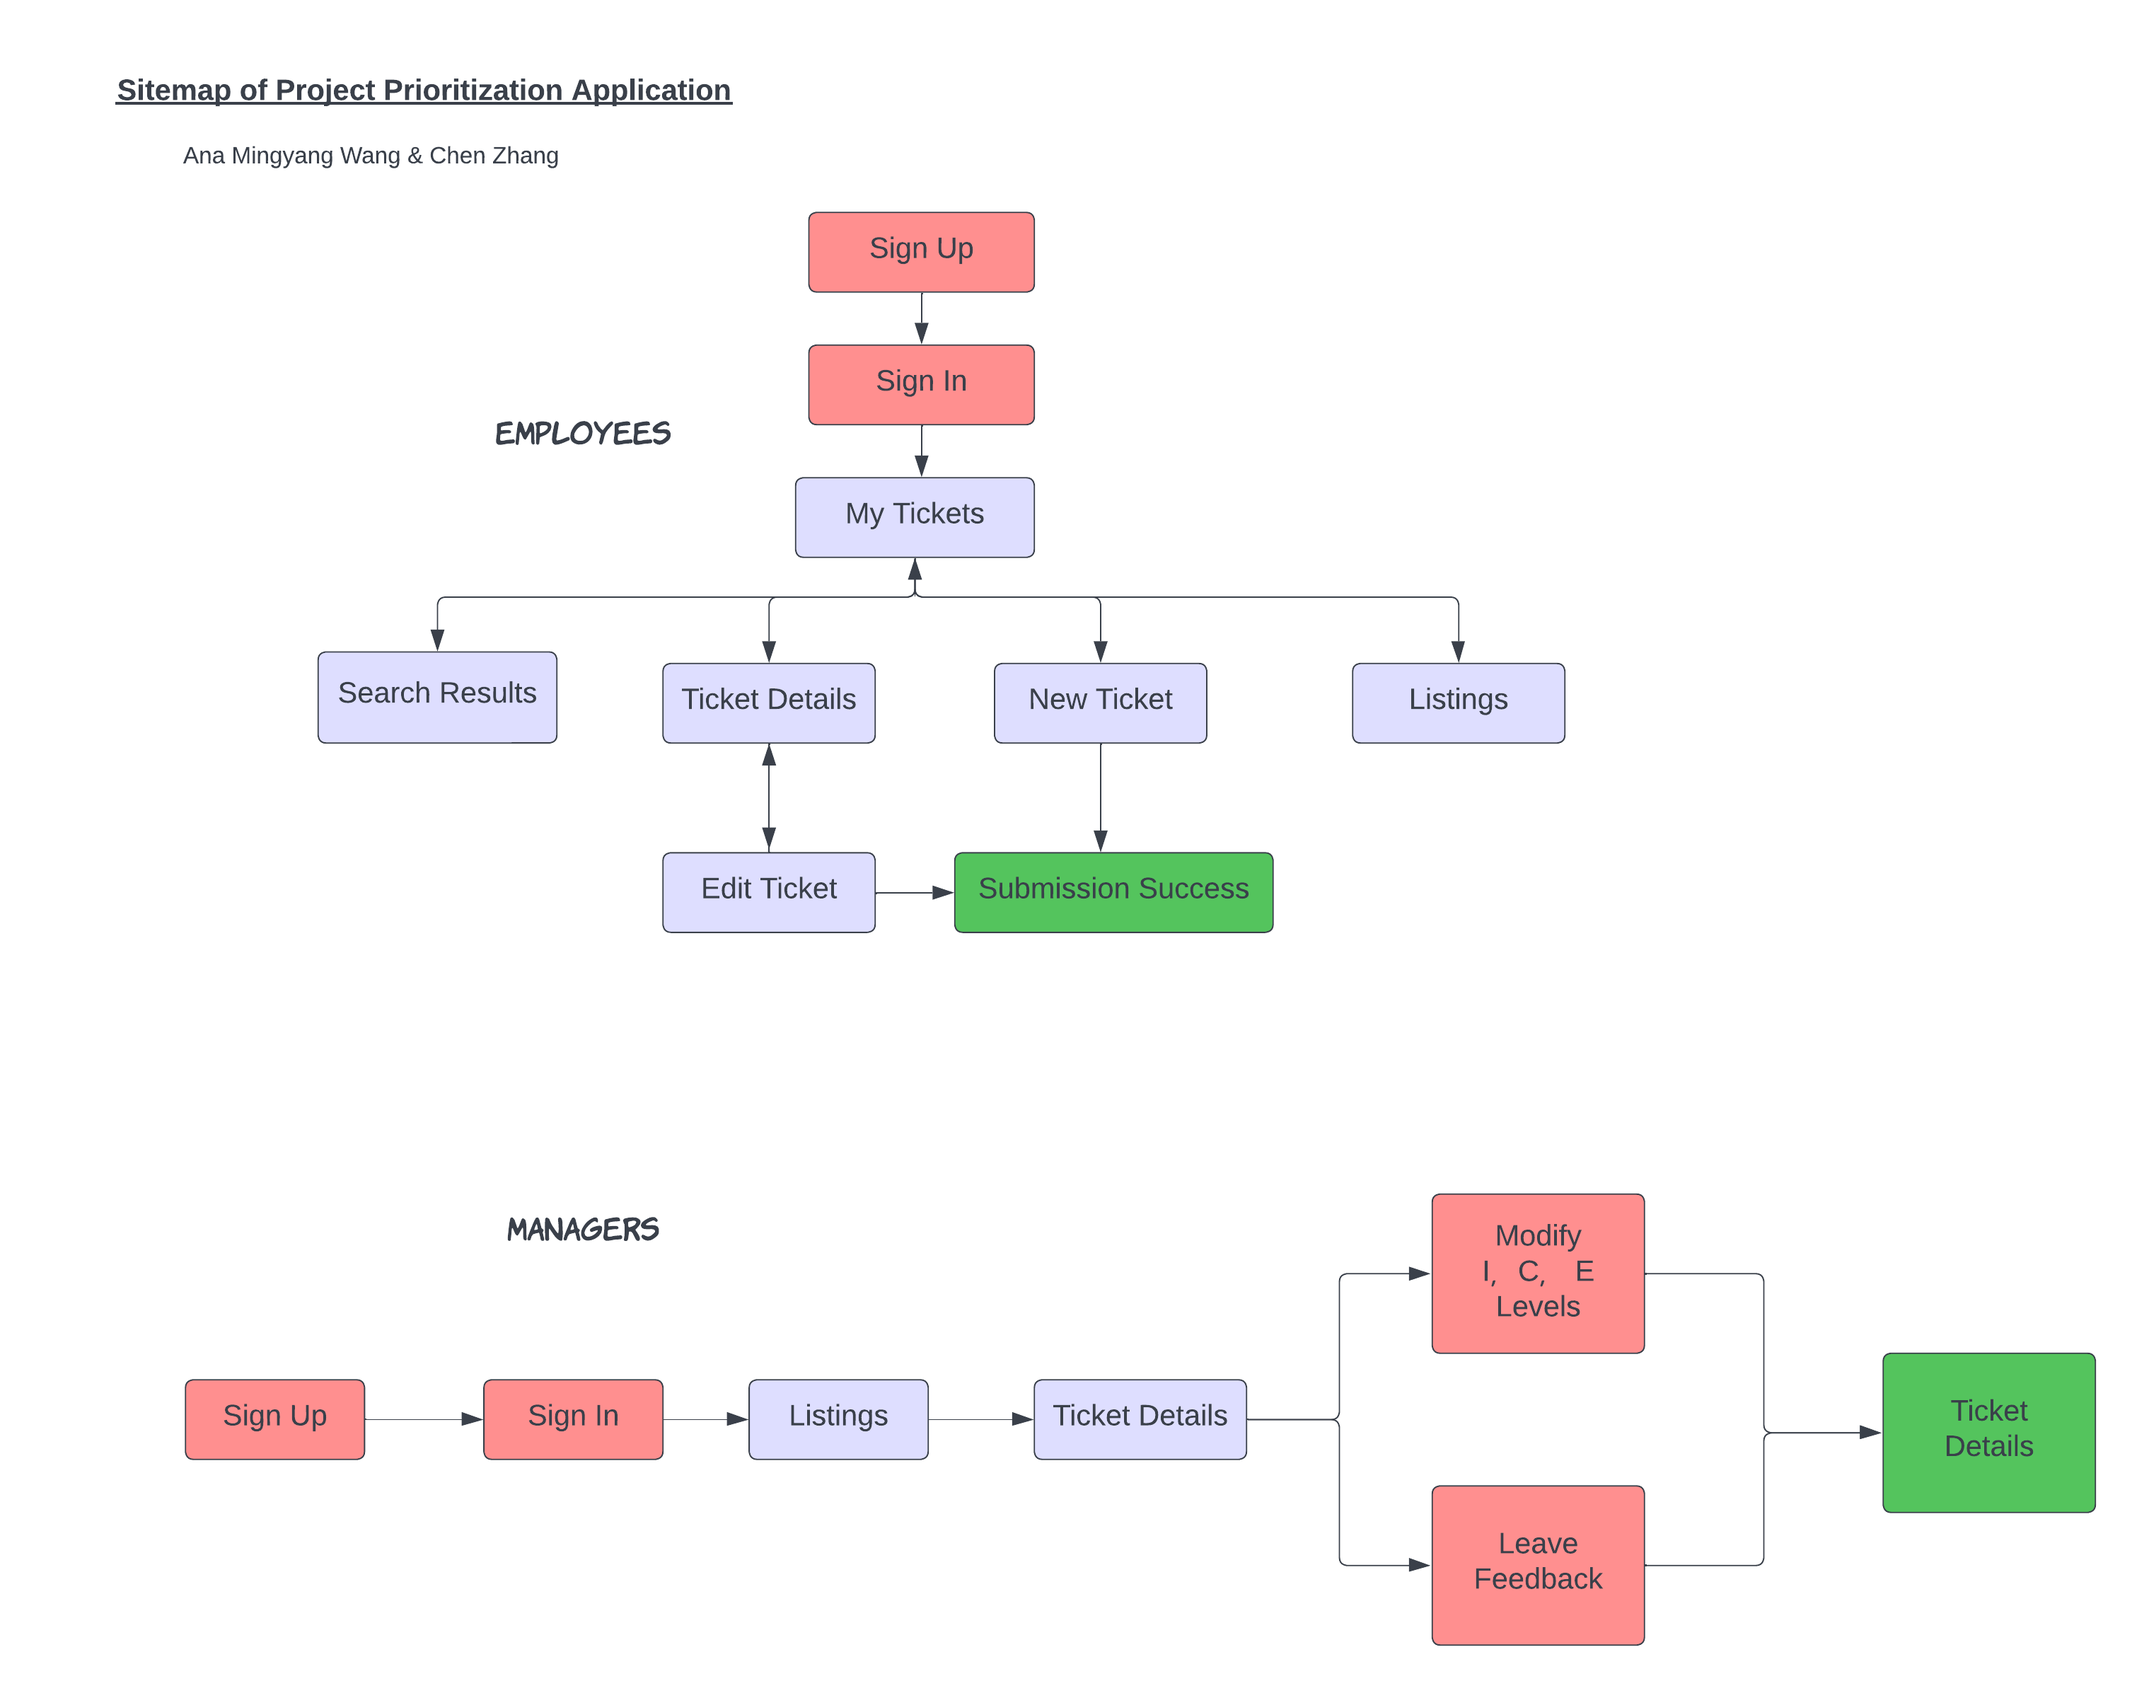
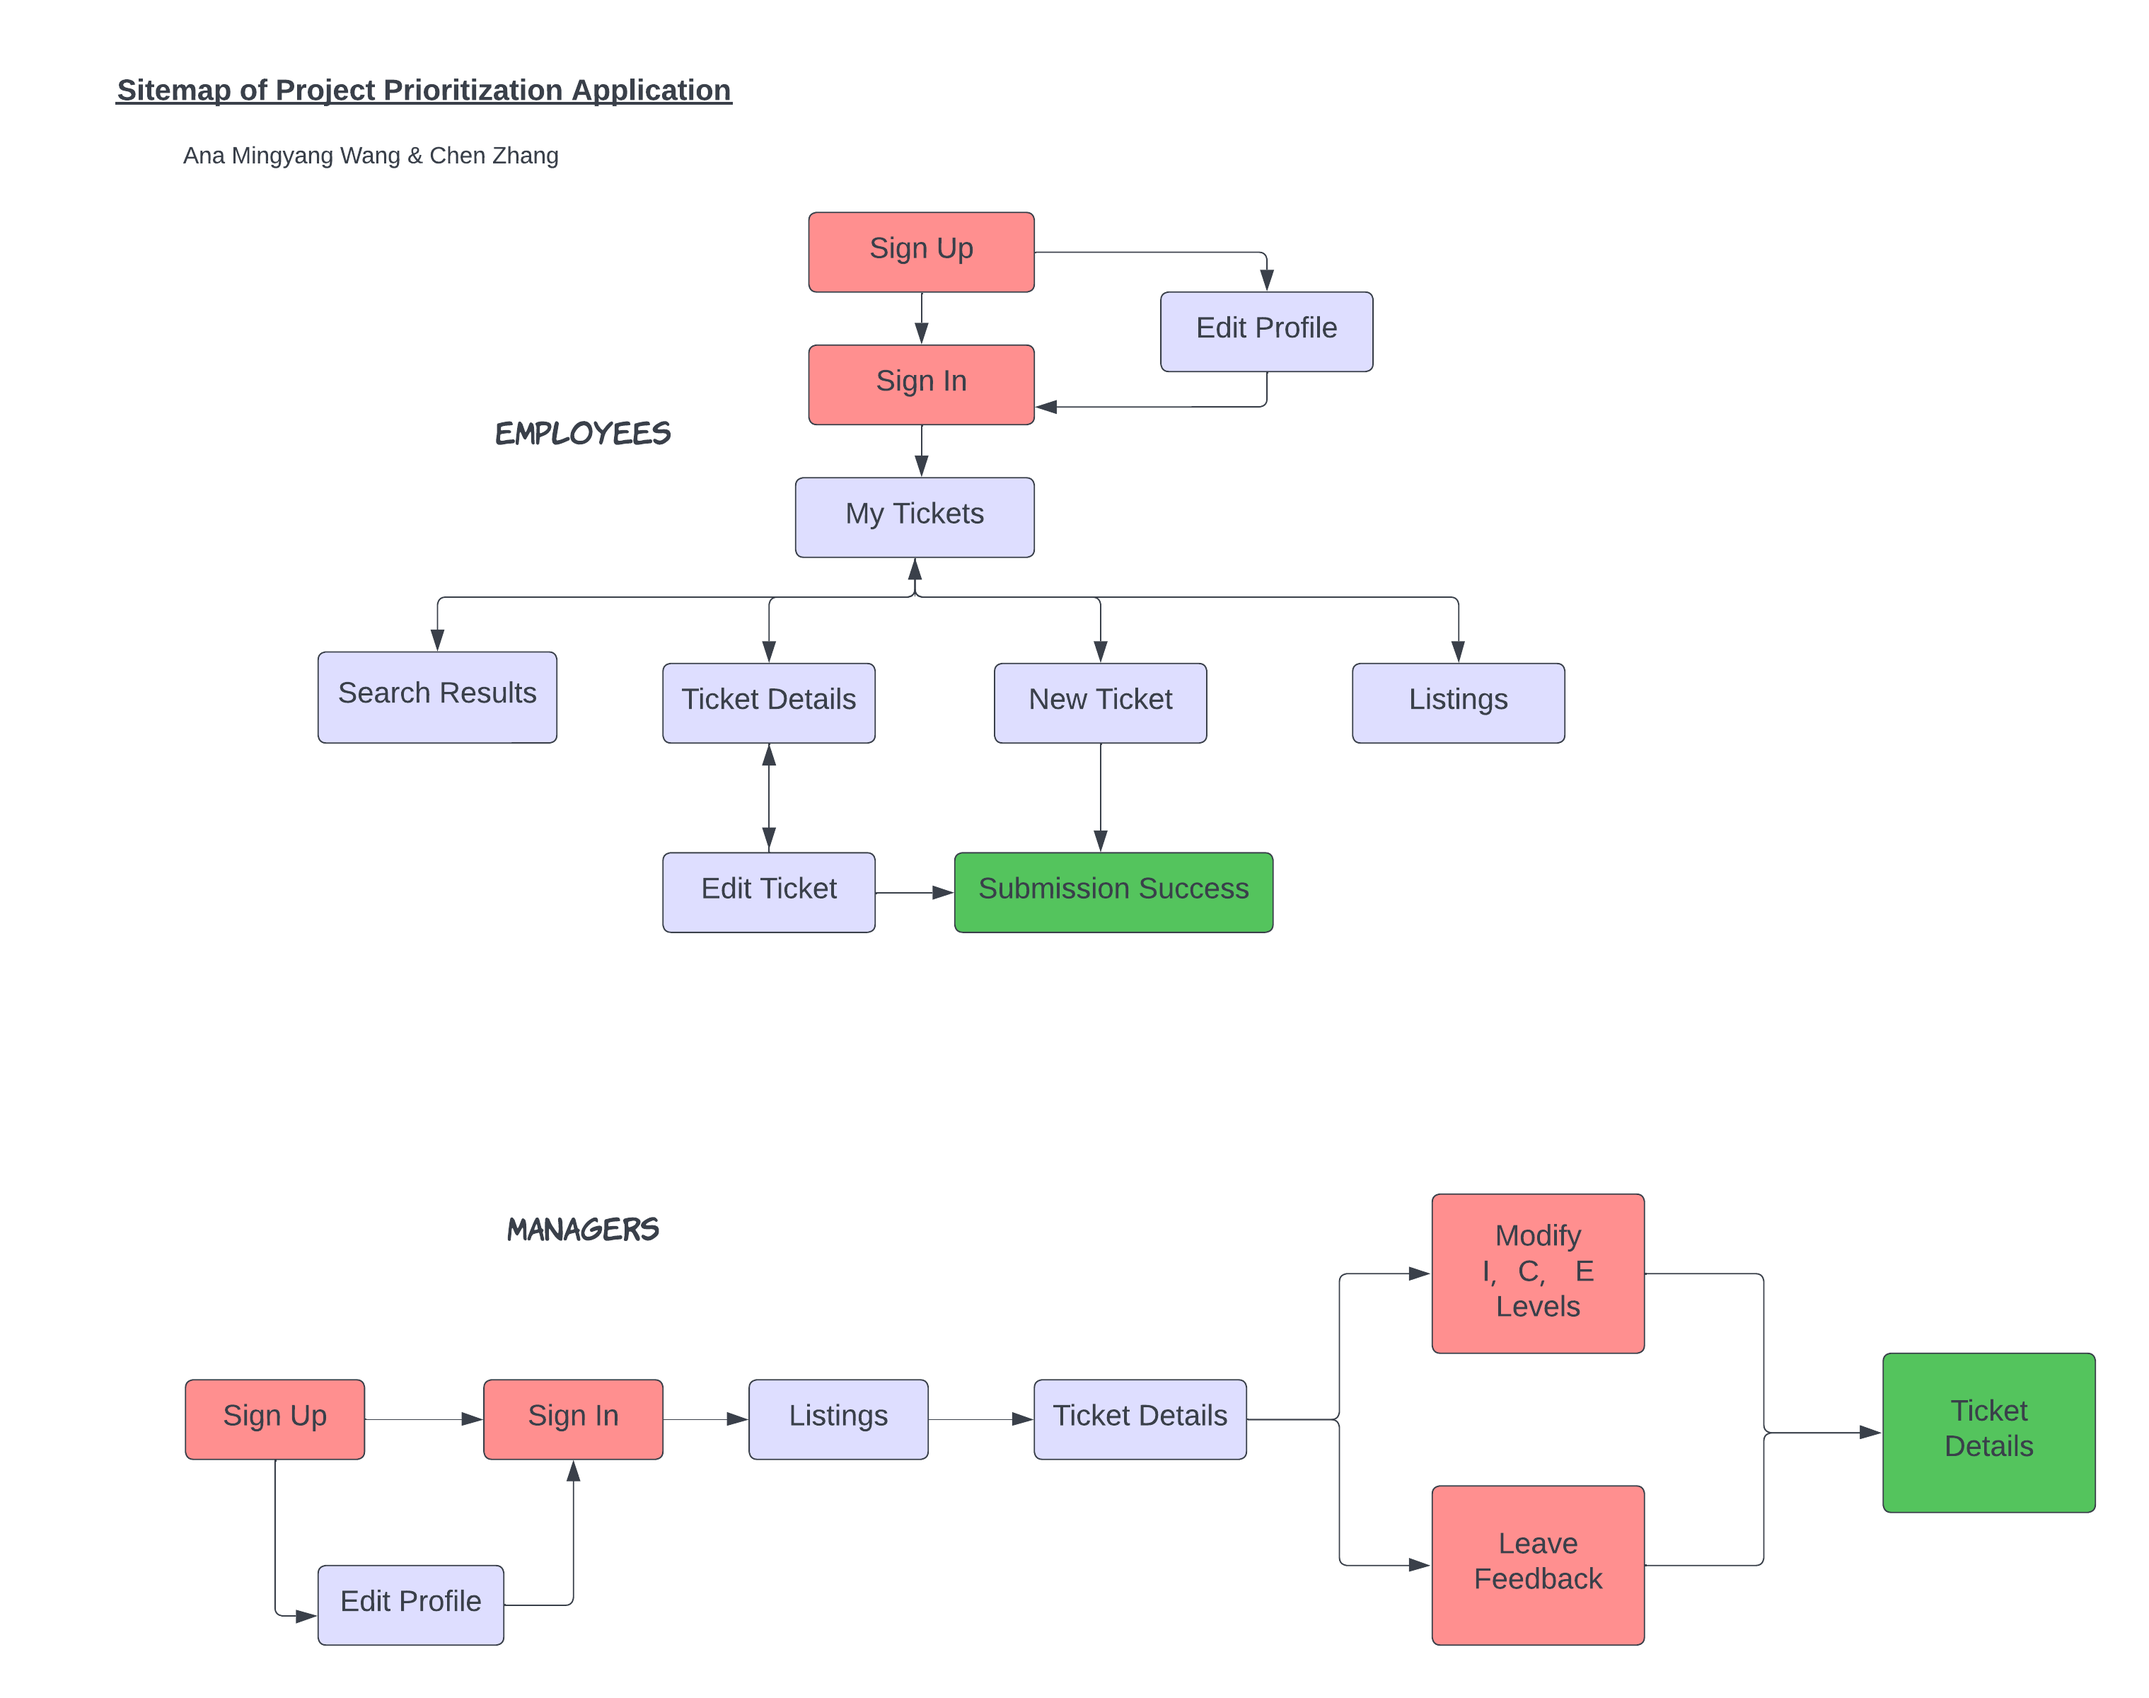
changed sitemap user story with edit profile feature

Changed region(s): [[0.526, 0.1562, 0.6498, 0.2188], [0.1238, 0.9062, 0.2475, 0.9688]]

diff --git a/README.md b/README.md
@@ -153,6 +153,13 @@
     <td>As Jessie, Design Lead, I want to be able to change ICE scores of employees’ projects, such as editing categories of impact, confidence, and effort, so I can make a decision on which project should go first.</td>
     <td>“As manager, we not only considered ICE scores when we prioritised out projects but also other impacts, such as, senior managers’ strategies, financial budget, and so on. Thus, I’d like to put all criteria into my consideration for my decision-making and be able to change ICE scores and update categories of impact, confidence, and effort. ” – Jessie</td>
   </tr>
+  <tr>
+    <td> sign up, sign in, edit user's account</td>
+    <td>As James, Software Engineer, I want to be able to sign up, sign in, and edit my user profile, so I can manage my account.</td>
+    <td>“After sign up and sign in to an account, I should be able to edit my user profile. This is just a common feature that everyone has to allow users to manage their account.” – James</td>
+  </tr>
+  <td></td>
+  <td></td>
 </table>
 
 ## R5 Wireframes for multiple standard screen sizes, created using industry standard software
